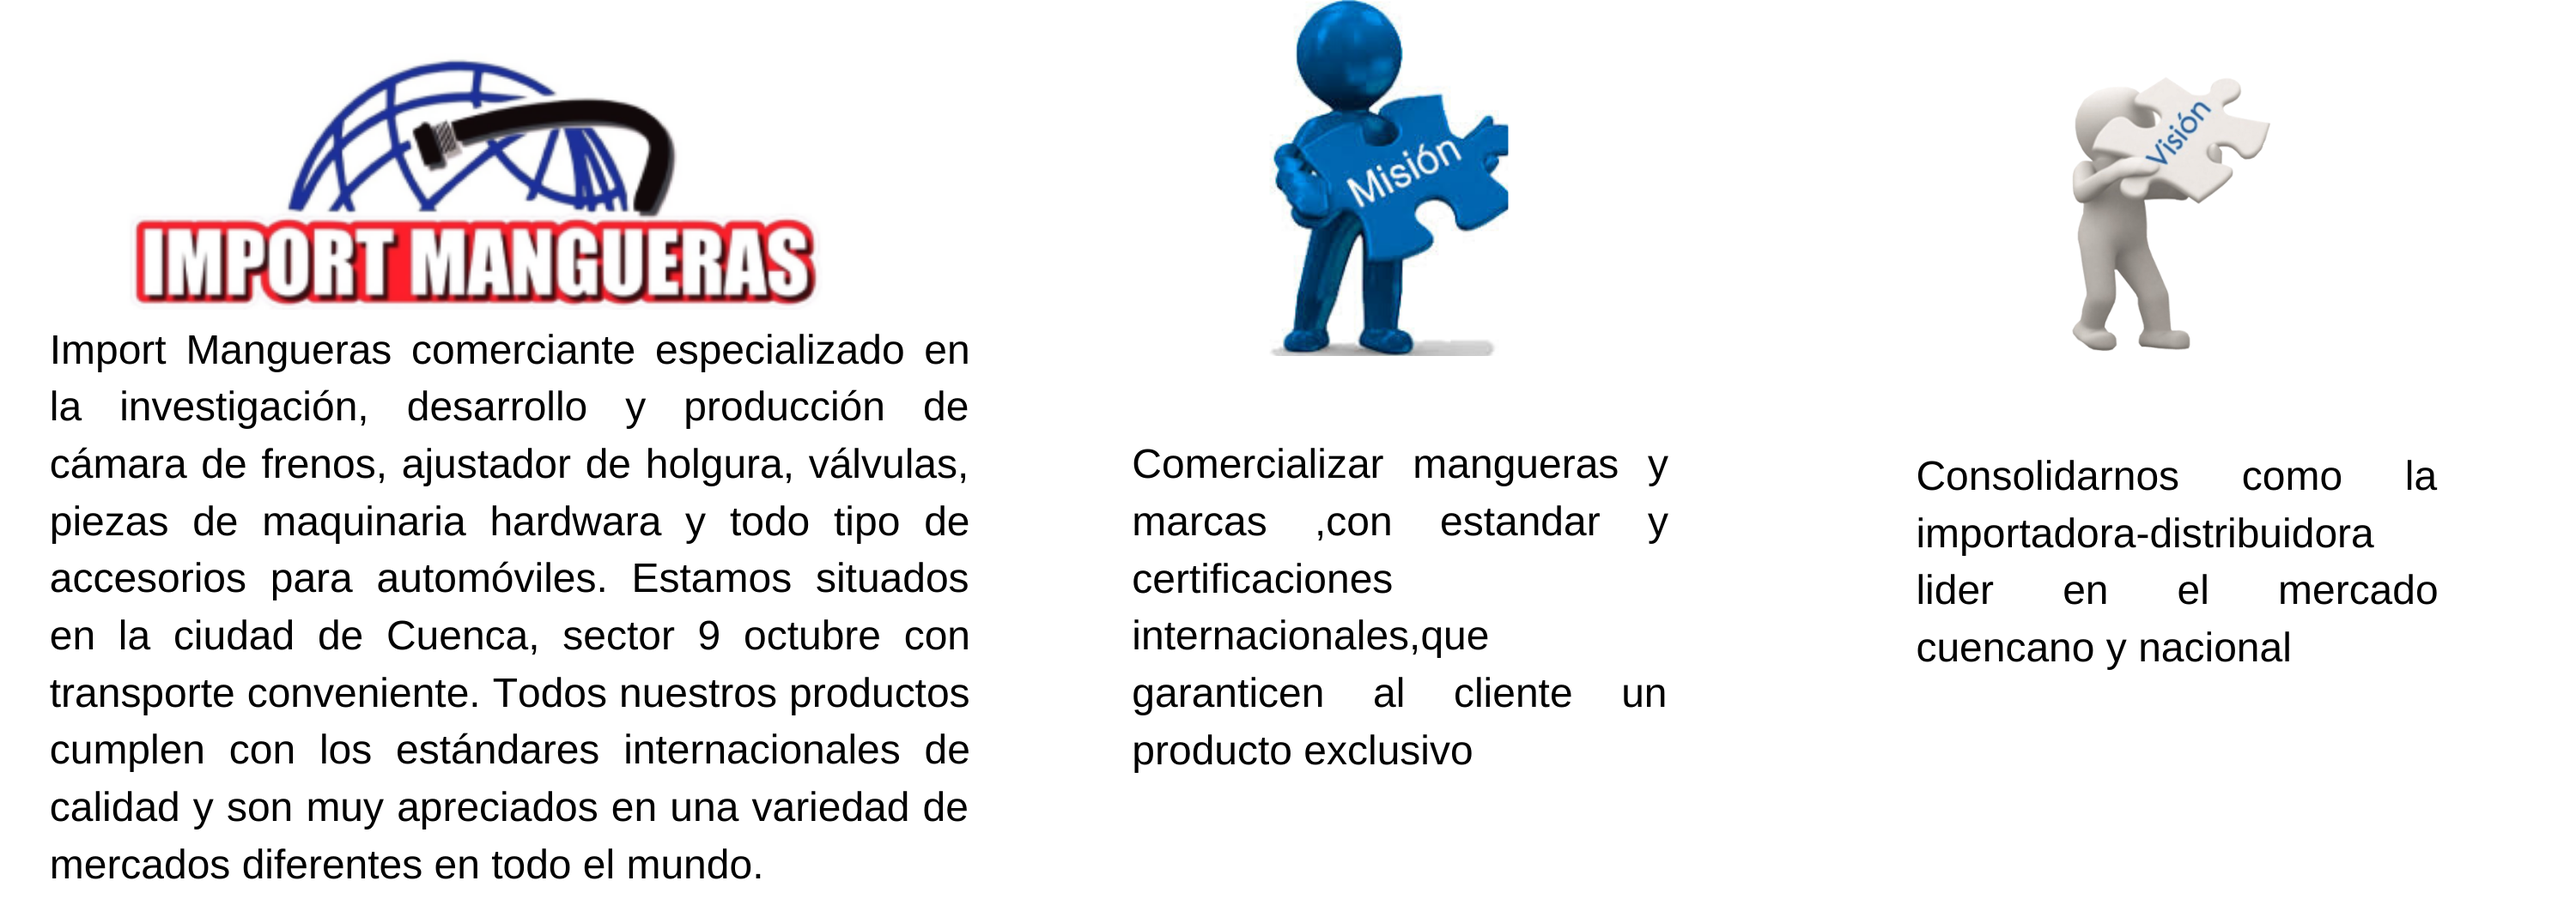
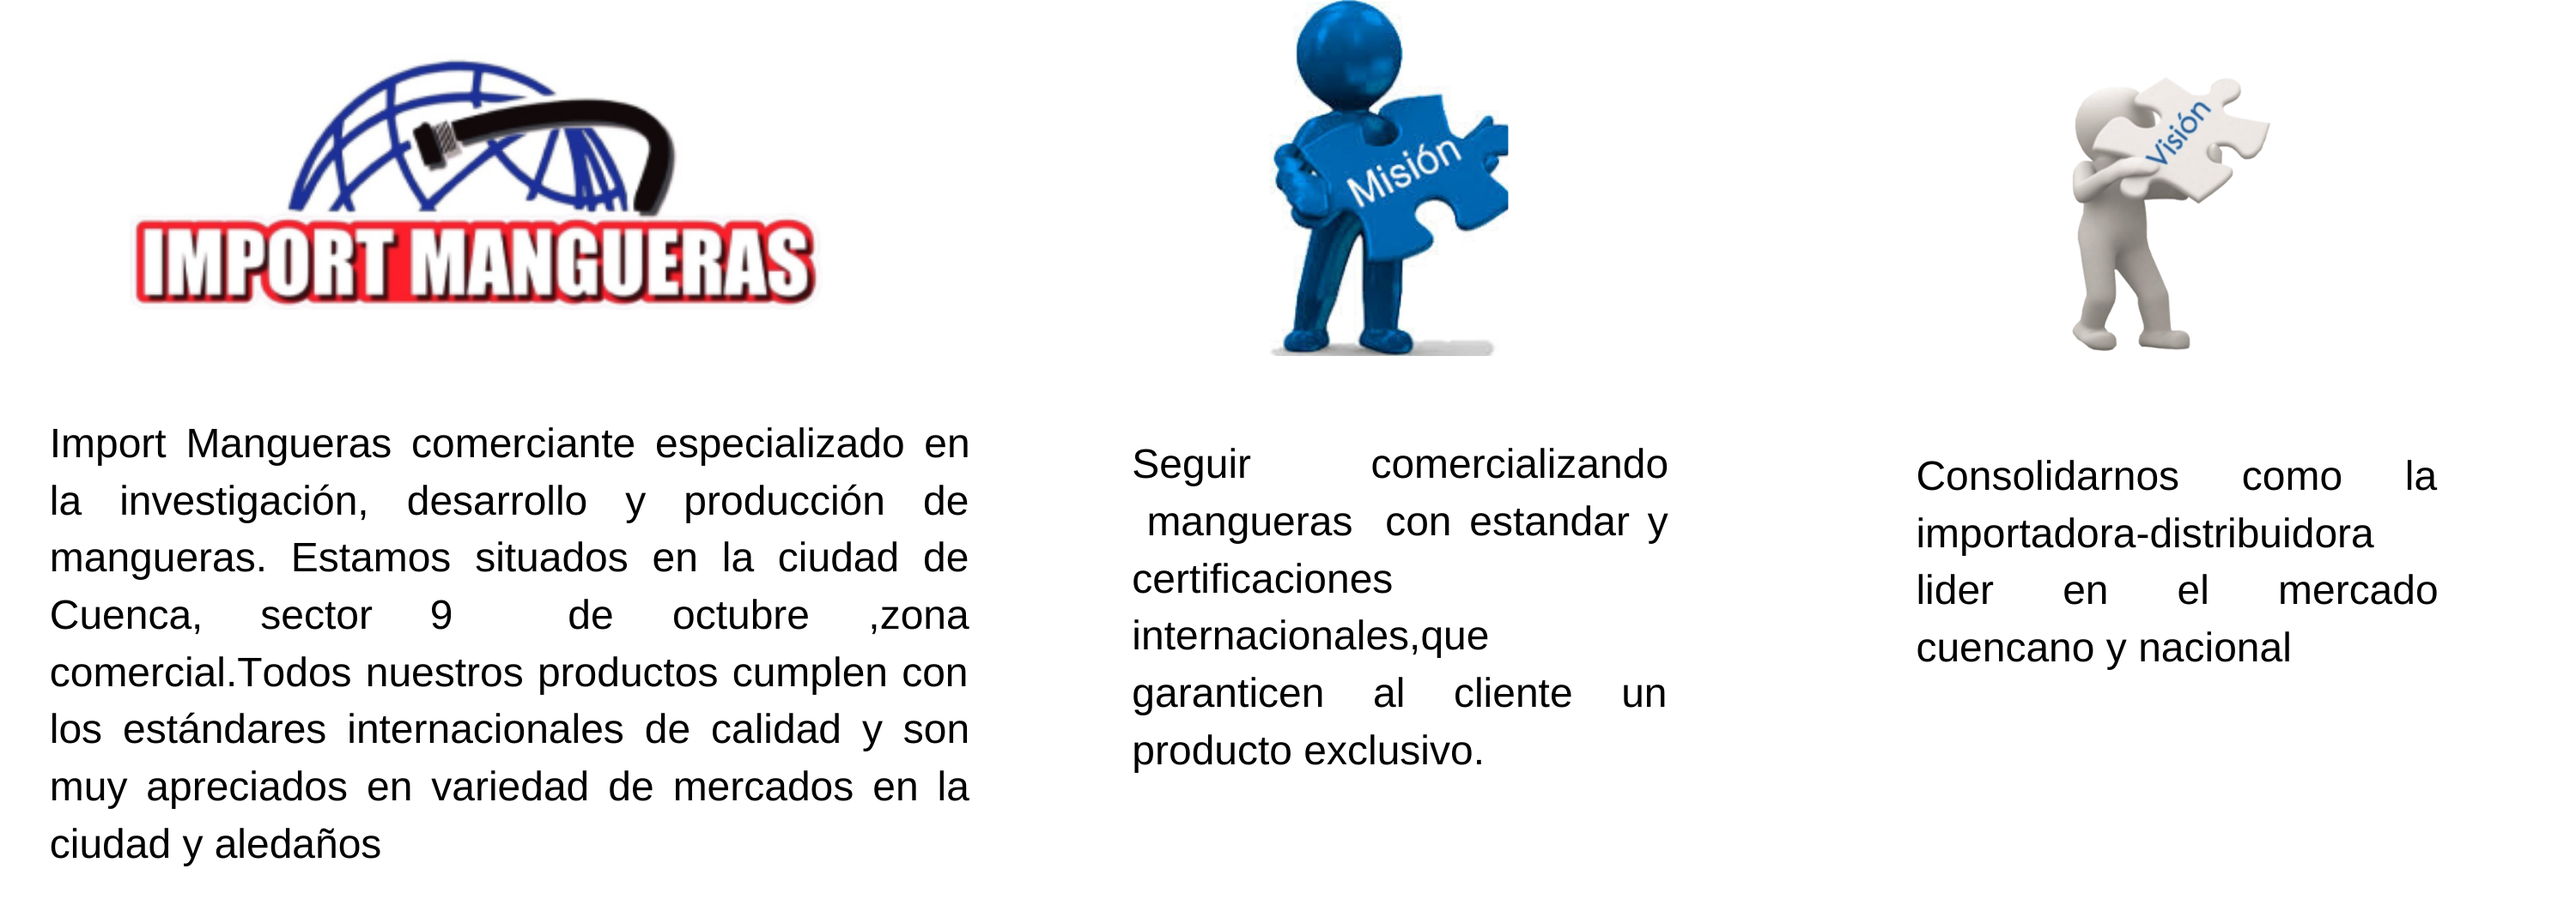
ModificacionInicio

Changed region(s): [[0.0, 0.364, 0.372, 0.9706], [0.434, 0.4853, 0.651, 0.6066]]

diff --git a/SistemaDeGestion/public/vista/indexusuario.php b/SistemaDeGestion/public/vista/indexusuario.php
@@ -106,12 +106,7 @@ $codigo = $_GET["variable1"];
             <br>
             <br>
             <article class="indexcontenido">
-                Lorem ipsum dolor sit amet consectetur adipisicing elit. Pariatur mollitia expedita sit quam voluptatum itaque accusamus ipsa optio illo quidem dignissimos, reprehenderit quibusdam vel eius! Culpa asperiores sequi aspernatur maxime?
-            Lorem ipsum dolor sit amet, consectetur adipisicing elit. Pariatur, quidem. Excepturi magnam voluptas eaque repellat laboriosam ipsa, illum dolores quis aut voluptatem ad in? Nostrum accusamus excepturi sit quis impedit!
-            Lorem, ipsum dolor sit amet consectetur adipisicing elit. Sed veritatis quas cumque explicabo impedit et aut eaque quam porro, ea ex quidem suscipit temporibus optio molestiae. Aperiam, adipisci. Sapiente, maxime.
-            Lorem ipsum dolor sit amet consectetur adipisicing elit. Magnam, officia consequatur ipsum quibusdam voluptatibus autem blanditiis reiciendis! Reprehenderit perferendis nam porro esse libero fuga sequi obcaecati iure, commodi officiis consectetur!
-            Lorem ipsum dolor sit amet, consectetur adipisicing elit. Voluptatibus ut quis rem iste, est, odio minus suscipit praesentium atque veritatis consectetur beatae vero delectus? Suscipit aperiam natus voluptate illum officia?
-            Lorem, ipsum dolor sit amet consectetur adipisicing elit. Quo inventore, atque tempore harum pariatur magni numquam cum, vero modi, libero deserunt enim quaerat? Quo beatae unde in dolore nulla voluptatibus.
+            La Importadora de Mangueras nació hace 5 años como un almacén distribuidor en la ciudad de Cuenca de mangueras nacionales e importadas. En la actualidad cuenta con un local matriz que tiene todos los servicios para satisfacer las necesidades de los clientes. Está ubicado en Lamar y Huayna-Capac, zona comercial del centro de la ciudad de Cuenca. Dentro de los beneficios que Importadora Mangueras ofrece a sus clientes está la calidad de los productos a un precio justo. Importamos insumos de: USA, Europa, América Latina, India, China, Indonesia. En estos años de trayectoria y establecimiento hemos podido aumentar nuestras habilidades y soporte a los clientes según sus necesidades. Además de que nos hemos posicionado como una empresa líder en el mercado. 
             </article> 
             
             <aside class="imgcontenido">

diff --git a/SistemaDeGestion/public/vista/index.php b/SistemaDeGestion/public/vista/index.php
@@ -101,12 +101,7 @@
             <br>
             <br>
             <article class="indexcontenido">
-                Lorem ipsum dolor sit amet consectetur adipisicing elit. Pariatur mollitia expedita sit quam voluptatum itaque accusamus ipsa optio illo quidem dignissimos, reprehenderit quibusdam vel eius! Culpa asperiores sequi aspernatur maxime?
-            Lorem ipsum dolor sit amet, consectetur adipisicing elit. Pariatur, quidem. Excepturi magnam voluptas eaque repellat laboriosam ipsa, illum dolores quis aut voluptatem ad in? Nostrum accusamus excepturi sit quis impedit!
-            Lorem, ipsum dolor sit amet consectetur adipisicing elit. Sed veritatis quas cumque explicabo impedit et aut eaque quam porro, ea ex quidem suscipit temporibus optio molestiae. Aperiam, adipisci. Sapiente, maxime.
-            Lorem ipsum dolor sit amet consectetur adipisicing elit. Magnam, officia consequatur ipsum quibusdam voluptatibus autem blanditiis reiciendis! Reprehenderit perferendis nam porro esse libero fuga sequi obcaecati iure, commodi officiis consectetur!
-            Lorem ipsum dolor sit amet, consectetur adipisicing elit. Voluptatibus ut quis rem iste, est, odio minus suscipit praesentium atque veritatis consectetur beatae vero delectus? Suscipit aperiam natus voluptate illum officia?
-            Lorem, ipsum dolor sit amet consectetur adipisicing elit. Quo inventore, atque tempore harum pariatur magni numquam cum, vero modi, libero deserunt enim quaerat? Quo beatae unde in dolore nulla voluptatibus.
+            La Importadora de Mangueras nació hace 5 años como un almacén distribuidor en la ciudad de Cuenca de mangueras nacionales e importadas. En la actualidad cuenta con un local matriz que tiene todos los servicios para satisfacer las necesidades de los clientes. Está ubicado en Lamar y Huayna-Capac, zona comercial del centro de la ciudad de Cuenca. Dentro de los beneficios que Importadora Mangueras ofrece a sus clientes está la calidad de los productos a un precio justo. Importamos insumos de: USA, Europa, América Latina, India, China, Indonesia. En estos años de trayectoria y establecimiento hemos podido aumentar nuestras habilidades y soporte a los clientes según sus necesidades. Además de que nos hemos posicionado como una empresa líder en el mercado. 
             </article> 
             
             <aside class="imgcontenido">
